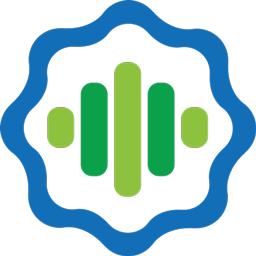
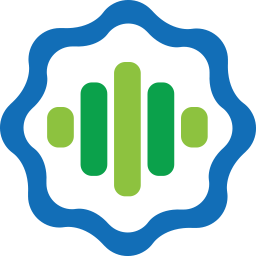
Scale down front matter and make it fit on tablets, phones

diff --git a/css/agency.css b/css/agency.css
@@ -14,7 +14,7 @@ body {
 }
 
 .text-primary {
-    color: #126eb7;
+    color: #416db5;
 }
 
 p {
@@ -35,7 +35,7 @@ a.active {
 }
 
 a {
-    color: #126eb7;
+    color: #416db5;
 }
 
 a:hover,
@@ -69,12 +69,12 @@ h6 {
 }
 
 .btn-primary {
-    border-color: #126eb7;
+    border-color: #416db5;
     text-transform: uppercase;
     font-family: Montserrat,"Helvetica Neue",Helvetica,Arial,sans-serif;
     font-weight: 700;
     color: #fff;
-    background-color: #126eb7;
+    background-color: #416db5;
 }
 
 .btn-primary:hover,
@@ -108,25 +108,25 @@ fieldset[disabled] .btn-primary:active,
 .btn-primary.disabled.active,
 .btn-primary[disabled].active,
 fieldset[disabled] .btn-primary.active {
-    border-color: #126eb7;
-    background-color: #126eb7;
+    border-color: #416db5;
+    background-color: #416db5;
 }
 
 .btn-primary .badge {
-    color: #126eb7;
+    color: #416db5;
     background-color: #fff;
 }
 
 .btn-xl {
     padding: 20px 40px;
-    border-color: #126eb7;
+    border-color: #416db5;
     border-radius: 3px;
     text-transform: uppercase;
     font-family: Montserrat,"Helvetica Neue",Helvetica,Arial,sans-serif;
     font-size: 18px;
     font-weight: 700;
     color: #fff;
-    background-color: #126eb7;
+    background-color: #416db5;
 }
 
 .btn-xl:hover,
@@ -160,12 +160,12 @@ fieldset[disabled] .btn-xl:active,
 .btn-xl.disabled.active,
 .btn-xl[disabled].active,
 fieldset[disabled] .btn-xl.active {
-    border-color: #126eb7;
-    background-color: #126eb7;
+    border-color: #416db5;
+    background-color: #416db5;
 }
 
 .btn-xl .badge {
-    color: #126eb7;
+    color: #416db5;
     background-color: #fff;
 }
 
@@ -182,7 +182,7 @@ fieldset[disabled] .btn-xl.active {
     /*font-family: "Kaushan Script","Helvetica Neue",Helvetica,Arial,cursive;*/
     font-family: "Droid Serif","Helvetica Neue",Helvetica,Arial,cursive;
     font-weight: bold;
-    color: #126eb7;
+    color: #416db5;
 }
 
 .navbar-default .navbar-brand:hover,
@@ -197,8 +197,8 @@ fieldset[disabled] .btn-xl.active {
 }
 
 .navbar-default .navbar-toggle {
-    border-color: #126eb7;
-    background-color: #126eb7;
+    border-color: #416db5;
+    background-color: #416db5;
 }
 
 .navbar-default .navbar-toggle .icon-bar {
@@ -222,26 +222,31 @@ fieldset[disabled] .btn-xl.active {
 .navbar-default .nav li a:hover,
 .navbar-default .nav li a:focus {
     outline: 0;
-    color: #126eb7;
+    color: #416db5;
 }
 
 .navbar-default .navbar-nav>.active>a {
     border-radius: 0;
     color: #fff;
-    background-color: #126eb7;
+    background-color: #416db5;
 }
 
 .navbar-default .navbar-nav>.active>a:hover,
 .navbar-default .navbar-nav>.active>a:focus {
     color: #fff;
-    background-color: #126eb7;
+    background-color: #416db5;
+}
+
+.main-logo {
+    width: 128px;
+    padding-bottom: 20px;
 }
 
 @media(min-width:768px) {
     .navbar-default {
         padding: 25px 0;
         border: 0;
-        background-color: transparent;
+        background-color: white;
         -webkit-transition: padding .3s;
         -moz-transition: padding .3s;
         transition: padding .3s;
@@ -266,6 +271,11 @@ fieldset[disabled] .btn-xl.active {
     .navbar-default.navbar-shrink .navbar-brand {
         font-size: 1.5em;
     }
+
+    .main-logo {
+        width: 256px;
+        padding-bottom: 40px;
+    }
 }
 
 header {
@@ -289,41 +299,41 @@ header .intro-text {
 header .intro-text .intro-lead-in {
     margin-bottom: 25px;
     font-family: "Droid Serif","Helvetica Neue",Helvetica,Arial,sans-serif;
-    font-size: 22px;
+    font-size: 18px;
     font-style: italic;
-    line-height: 22px;
+    line-height: 18px;
 }
 
 header .intro-text .intro-heading {
     margin-bottom: 25px;
     text-transform: uppercase;
     font-family: Montserrat,"Helvetica Neue",Helvetica,Arial,sans-serif;
-    font-size: 50px;
+    font-size: 25px;
     font-weight: 700;
-    line-height: 50px;
+    line-height: 25px;
 }
 
 @media(min-width:768px) {
     header .intro-text {
-        padding-top: 200px;
-        padding-bottom: 150px;
+        padding-top: 120px;
+        padding-bottom: 50px;
     }
 
     header .intro-text .intro-lead-in {
         margin-bottom: 25px;
         font-family: "Droid Serif","Helvetica Neue",Helvetica,Arial,sans-serif;
-        font-size: 40px;
+        font-size: 30px;
         font-style: italic;
-        line-height: 40px;
+        line-height: 30px;
     }
 
     header .intro-text .intro-heading {
         margin-bottom: 50px;
         text-transform: uppercase;
         font-family: Montserrat,"Helvetica Neue",Helvetica,Arial,sans-serif;
-        font-size: 75px;
+        font-size: 50px;
         font-weight: 700;
-        line-height: 75px;
+        line-height: 50px;
     }
 }
 
@@ -502,7 +512,7 @@ section h3.section-subheading {
     border-radius: 100%;
     text-align: center;
     color: #fff;
-    background-color: #126eb7;
+    background-color: #416db5;
 }
 
 .timeline>li .timeline-image h4 {
@@ -742,7 +752,7 @@ ul.social-buttons li a {
 ul.social-buttons li a:hover,
 ul.social-buttons li a:focus,
 ul.social-buttons li a:active {
-    background-color: #126eb7;
+    background-color: #416db5;
     color: #fff;
 }
 
@@ -831,12 +841,12 @@ ul.social-buttons li a:active {
 
 ::-moz-selection {
     text-shadow: none;
-    background: #126eb7;
+    background: #416db5;
 }
 
 ::selection {
     text-shadow: none;
-    background: #126eb7;
+    background: #416db5;
 }
 
 img::selection {
@@ -848,5 +858,5 @@ img::-moz-selection {
 }
 
 body {
-    webkit-tap-highlight-color: #126eb7;
+    webkit-tap-highlight-color: #416db5;
 }

diff --git a/index.html b/index.html
@@ -88,14 +88,14 @@
             <div class="intro-text">
                 <div class="intro-lead-in">The Resonant data and analytics platform</div>
                 <div class="intro-heading">Welcome to Your Data</div>
-                <div><img src="img/Resonant_Mark_512.png"></div>
+                <div><img class="main-logo" src="img/Resonant_Mark_256.png"></div>
                 <!-- <div><svg class="logo"></svg></div> -->
                 <a href="#services" class="page-scroll">
-                    <div class="fa-stack fa-4x">
+                    <h3 class="service-heading">Tell Me More</h3>
+                    <span class="fa-stack fa-2x">
                         <!-- <i class="fa fa-circle fa-stack-2x text-primary"></i> -->
                         <i class="fa fa-arrow-down fa-stack-1x text-primary"></i>
-                    </div>
-                    <h3 class="service-heading">Tell Me More</h3>
+                    </span>
                 </a>
             </div>
         </div>
@@ -107,7 +107,7 @@
             <div class="row">
                 <div class="col-lg-12 text-center">
                     <h2 class="section-heading">Capabilities</h2>
-                    <h3 class="section-subheading text-muted">End-to-end solutions for data science workflows.</h3>
+                    <h3 class="section-subheading text-muted">Resonant is an open source platform for end-to-end data science solutions.</h3>
                 </div>
             </div>
             <div class="row text-center">
